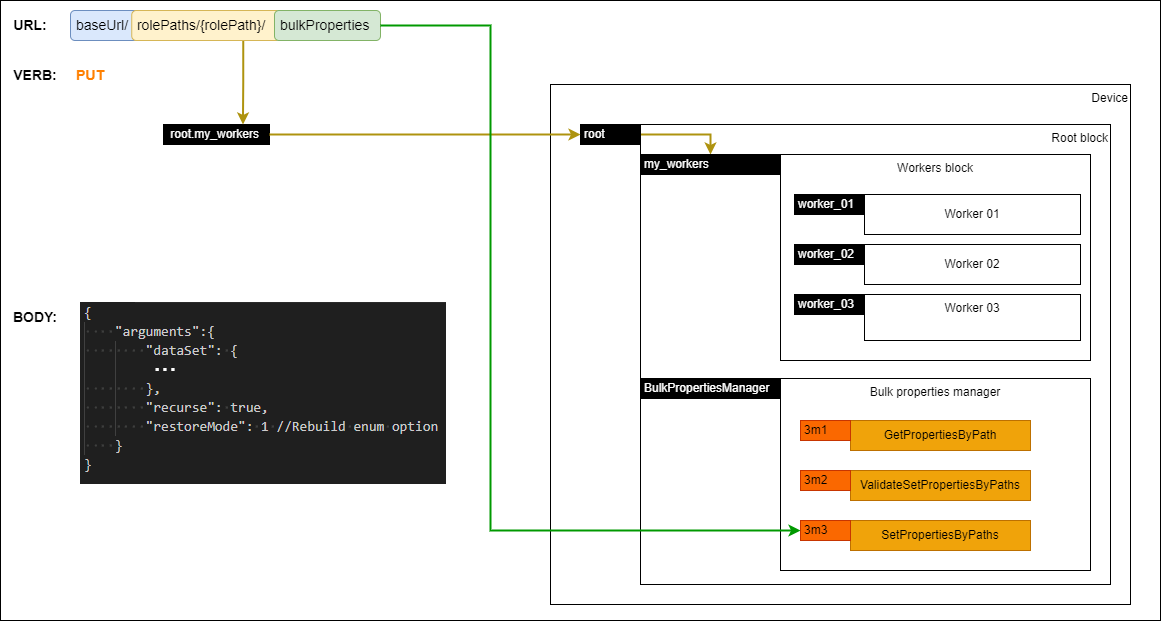
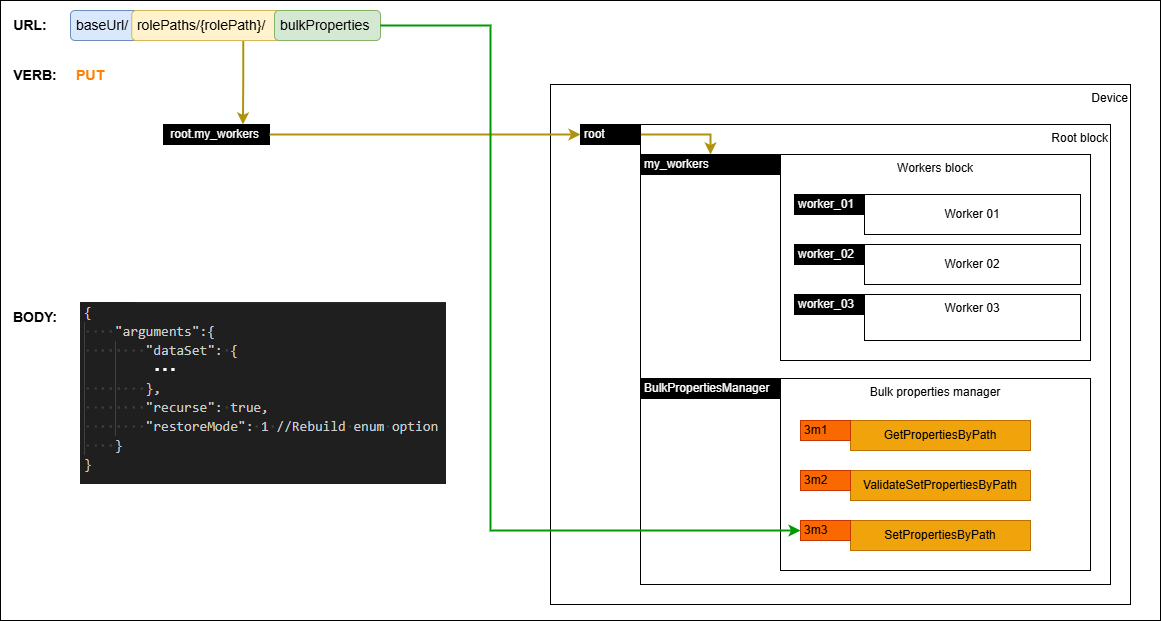
Rename certain datatypes to remove Value from the name (#32)
* Update examples based on the mock device model

* Add examples for a rebuild restore

* Add links to request/response example snippets where appropriate

* Rename certain datatypes to remove Value from the name

* NcPropertyValueHolder becomes NcPropertyHolder
* NcBulkValuesHolder becomes NcBulkPropertiesHolder
* NcMethodResultBulkValuesHolder becomes NcMethodResultBulkPropertiesHolder

* Fix method name mistakes for 3m2 and 3m3

The suffix should have been Path not Paths.

* Rename [bulk values holder] to [bulk properties holder]

* Remove old files which have been renamed

diff --git a/docs/API requests.md b/docs/API requests.md
@@ -35,7 +35,7 @@ The following subsections define common use cases for the applicable HTTP verbs 
 | GET     | [Get a property](#getting-a-property)                                                                   | baseUrl/rolePaths/{rolePath}/properties/{propertyId}/value      | N/A                                                                                                                                | [NcMethodResultPropertyValue](https://specs.amwa.tv/ms-05-02/latest/docs/Framework.html#ncmethodresultpropertyvalue) with the contents of the property                                                 |
 | GET     | [Get class descriptor](#getting-the-class-descriptor-of-an-object)                                      | baseUrl/rolePaths/{rolePath}/descriptor                         | N/A                                                                                                                                | [NcMethodResultClassDescriptor](https://specs.amwa.tv/ms-05-02/latest/docs/Framework.html#ncmethodresultclassdescriptor)                                                                               |
 | GET     | [Get datatype descriptor](#getting-the-datatype-descriptor-of-a-property)                               | baseUrl/rolePaths/{rolePath}/properties/{propertyId}/descriptor | N/A                                                                                                                                | [NcMethodResultDatatypeDescriptor](https://specs.amwa.tv/ms-05-02/latest/docs/Framework.html#ncmethodresultdatatypedescriptor)                                                                         |
-| GET     | [Getting all the properties of a role path](#getting-all-the-properties-of-a-role-path)                 | baseUrl/rolePaths/{rolePath}/bulkProperties?recurse={value}     | N/A                                                                                                                                | [NcMethodResultBulkValuesHolder](https://specs.amwa.tv/nmos-control-feature-sets/branches/main/device-configuration/#ncmethodresultbulkvaluesholder)                           |
+| GET     | [Getting all the properties of a role path](#getting-all-the-properties-of-a-role-path)                 | baseUrl/rolePaths/{rolePath}/bulkProperties?recurse={value}     | N/A                                                                                                                                | [NcMethodResultBulkPropertiesHolder](https://specs.amwa.tv/nmos-control-feature-sets/branches/main/device-configuration/#ncmethodresultbulkpropertiesholder)                           |
 | PUT     | [Modify a property](#changing-a-property)                                                               | baseUrl/rolePaths/{rolePath}/properties/{propertyId}/value      | [property-value-put-request](https://specs.amwa.tv/is-14/branches/v1.0-dev/APIs/schemas/property-value-put-request.json)           | [NcMethodResult](https://specs.amwa.tv/ms-05-02/latest/docs/Framework.html#ncmethodresult)                                                                                                             |
 | PUT     | [Setting bulk properties for a role path](#setting-bulk-properties-for-a-role-path)       | baseUrl/rolePaths/{rolePath}/bulkProperties                     | [bulkProperties-put-request](https://specs.amwa.tv/is-14/branches/v1.0-dev/APIs/schemas/bulkProperties-put-request.json)           | [NcMethodResultObjectPropertiesSetValidation](https://specs.amwa.tv/nmos-control-feature-sets/branches/main/device-configuration/#ncmethodresultobjectpropertiessetvalidation) |
 | PATCH   | [Invoke a method](#invoking-a-method)                                                                   | baseUrl/rolePaths/{rolePath}/methods/{methodId}                 | [method-patch-request](https://specs.amwa.tv/is-14/branches/v1.0-dev/APIs/schemas/method-patch-request.json)                       | [NcMethodResult](https://specs.amwa.tv/ms-05-02/latest/docs/Framework.html#ncmethodresult)                                                                                                             |
@@ -79,7 +79,7 @@ Note that this is equivalent to invoking the [GetDatatype method](https://specs.
 |:--:|
 | _**Getting bulk properties**_ |
 
-Clients MUST target a specific role path in the device model by locating the object using its role path and building a URL (optionally specifying the `recurse` parameter) as per the following format `baseUrl/rolePaths/{rolePath}/bulkProperties?recurse={true|false}`. Not including the `recurse` query parameter MUST be treated as providing a `recurse` argument of `true`. Devices MUST return a response of type [NcMethodResultBulkValuesHolder](https://specs.amwa.tv/nmos-control-feature-sets/branches/main/device-configuration/#ncmethodresultbulkvaluesholder) and MUST include all the properties of the target role path, including inherited properties, as a [bulk values holder](https://specs.amwa.tv/nmos-control-feature-sets/branches/main/device-configuration/#ncbulkvaluesholder). If the `recurse` argument is set to `true` then devices MUST include all the properties of the target role path as well as any nested role paths in the response. If the request encountered an error then devices MUST return a response of type [NcMethodResultError](https://specs.amwa.tv/ms-05-02/latest/docs/Framework.html#ncmethodresulterror) or a derived datatype and include an error message.
+Clients MUST target a specific role path in the device model by locating the object using its role path and building a URL (optionally specifying the `recurse` parameter) as per the following format `baseUrl/rolePaths/{rolePath}/bulkProperties?recurse={true|false}`. Not including the `recurse` query parameter MUST be treated as providing a `recurse` argument of `true`. Devices MUST return a response of type [NcMethodResultBulkPropertiesHolder](https://specs.amwa.tv/nmos-control-feature-sets/branches/main/device-configuration/#ncmethodresultbulkpropertiesholder) and MUST include all the properties of the target role path, including inherited properties, as a [bulk properties holder](https://specs.amwa.tv/nmos-control-feature-sets/branches/main/device-configuration/#ncbulkpropertiesholder). If the `recurse` argument is set to `true` then devices MUST include all the properties of the target role path as well as any nested role paths in the response. If the request encountered an error then devices MUST return a response of type [NcMethodResultError](https://specs.amwa.tv/ms-05-02/latest/docs/Framework.html#ncmethodresulterror) or a derived datatype and include an error message.
 
 Note that this is equivalent to invoking the `GetPropertiesByPath` method on the [Bulk properties manager object](https://specs.amwa.tv/nmos-control-feature-sets/branches/main/device-configuration/#ncbulkpropertiesmanager).
 

diff --git a/docs/Backup & restore.md b/docs/Backup & restore.md
@@ -20,7 +20,7 @@ Note that this does not mean that the backup & restore functionality can only be
 
 A `device`, for the purposes of this section, is a physical or logical entity that can be backed up and restored using the procedures described. It may or may not correspond to an IS-04 Device or IS-04 Node.
 
-`Backup data set` is the set of data retrieved from a device using the backup procedures described. This is represented as an [NcBulkValuesHolder](https://specs.amwa.tv/nmos-control-feature-sets/branches/main/device-configuration/#ncbulkvaluesholder) object.
+`Backup data set` is the set of data retrieved from a device using the backup procedures described. This is represented as an [NcBulkPropertiesHolder](https://specs.amwa.tv/nmos-control-feature-sets/branches/main/device-configuration/#ncbulkpropertiesholder) object.
 
 `Backup validation fingerprint` is an optional string in a `backup data set` that can be used to capture the various versions of the hardware, software and/or firmware that made up a device at the time the backup was performed. The format of the string is defined by the vendor and is opaque to other systems. This could contain information such as:
 
